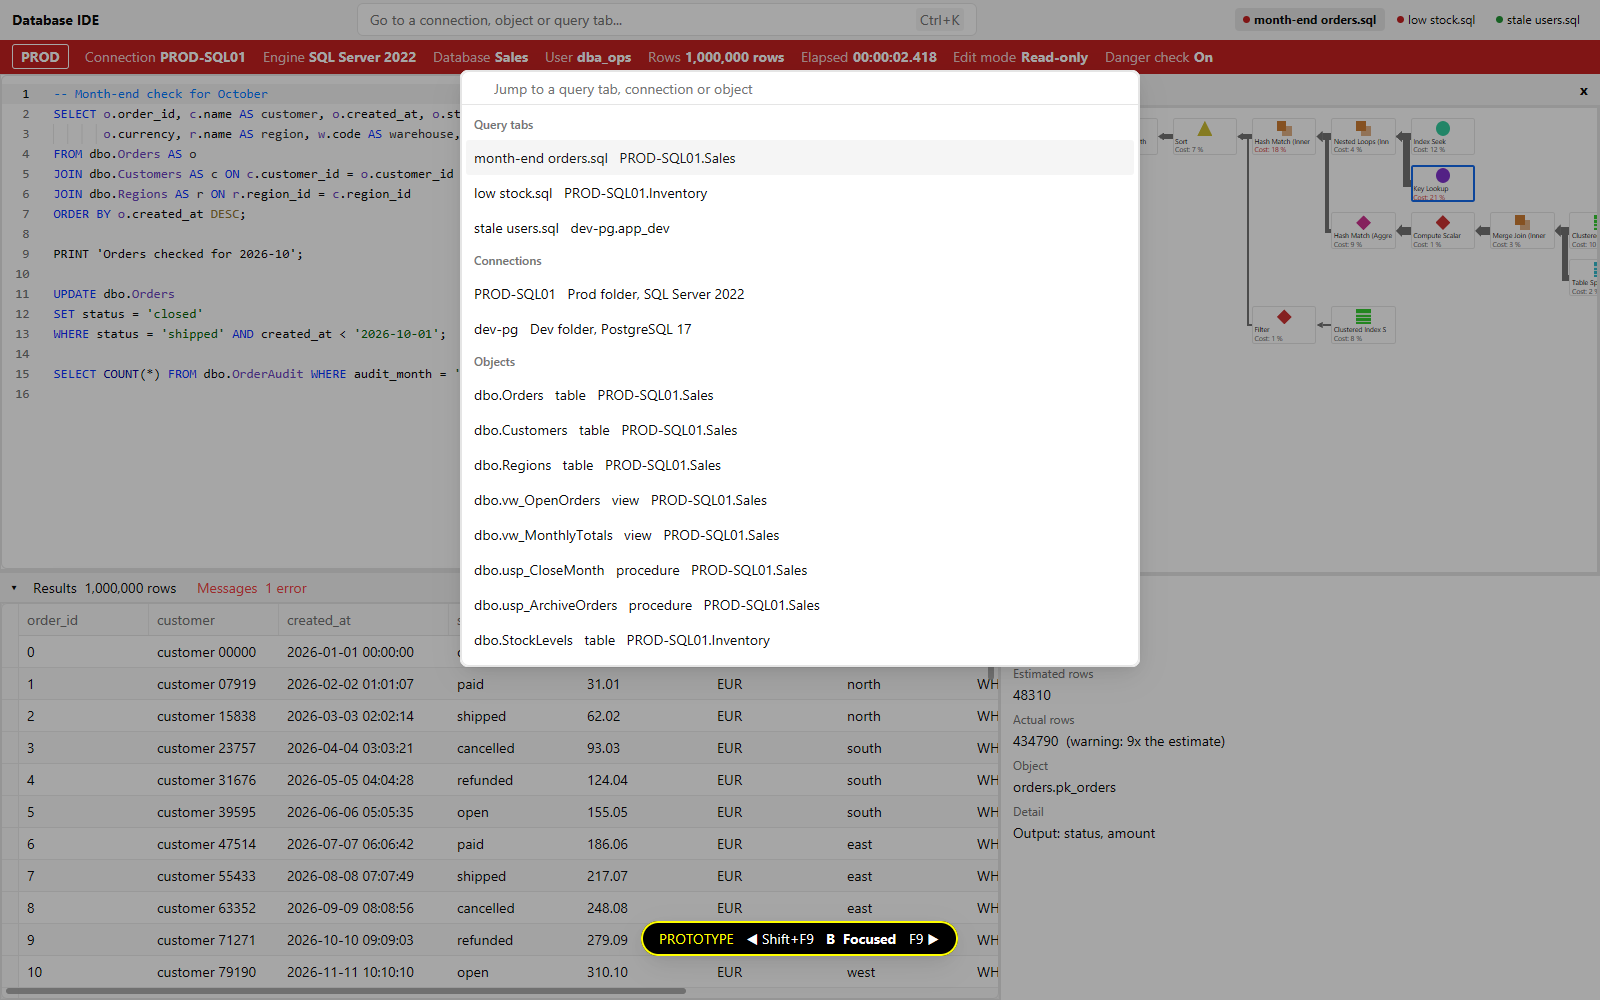
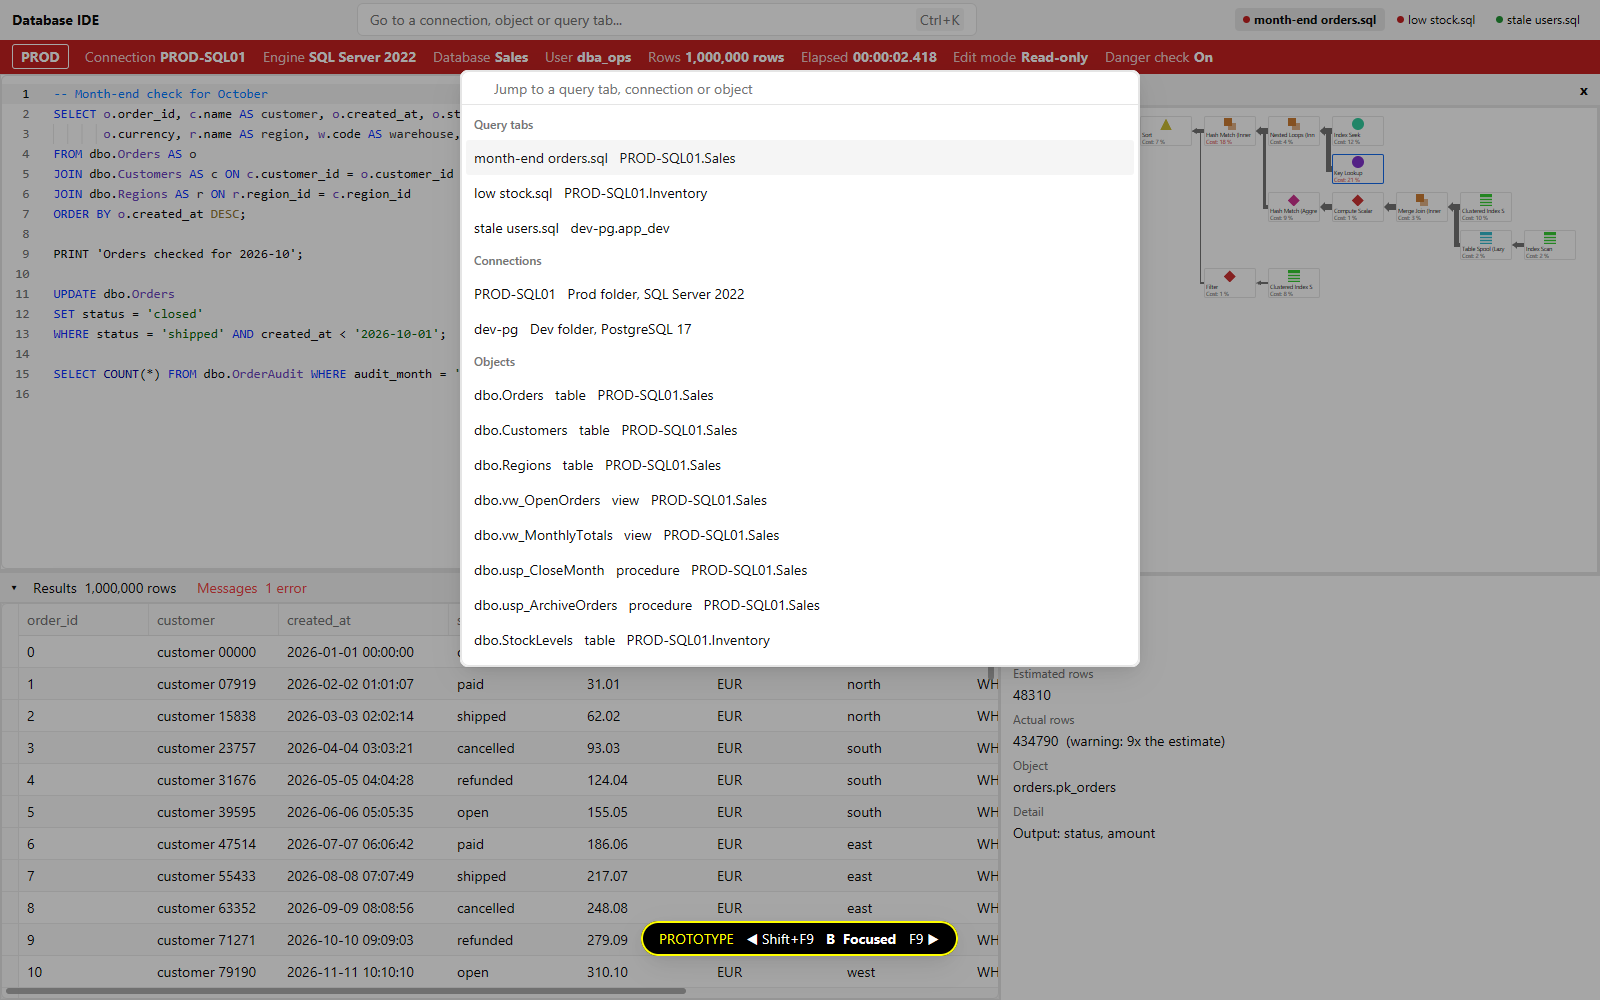
Show the plan when Ctrl+4 opens B's side panel, and fit the plan in it
After jumping to an object, Ctrl+4 kept the object in the side panel and focused
an off-screen plan. B's plan scale drops to 0.5 so the whole tree fits the panel.

Changed region(s): [[0.7188, 0.124, 1.0, 0.31], [0.75, 0.248, 0.8125, 0.341], [0.8438, 0.31, 0.875, 0.341]]

diff --git a/prototypes/main-window-layout/src/main.rs b/prototypes/main-window-layout/src/main.rs
@@ -189,7 +189,10 @@ impl Shell {
             (Variant::B, Pane::Messages) => {
                 (self.drawer_open, self.bottom) = (true, Bottom::Messages)
             }
-            (Variant::B, Pane::Plan) => self.plan_panel_open = true,
+            (Variant::B, Pane::Plan) => {
+                // The side panel shows the plan only when the plan is the selection.
+                (self.plan_panel_open, self.selection) = (true, Selection::PlanNode)
+            }
             (_, Pane::Results) => self.bottom = Bottom::Results,
             (Variant::A, Pane::Messages) => self.bottom = Bottom::Messages,
             (_, Pane::Plan) => self.bottom = Bottom::Plan,
@@ -286,7 +289,7 @@ impl Shell {
 fn plan_scale(variant: Variant) -> f32 {
     match variant {
         Variant::A => 1.,
-        Variant::B => 0.62,
+        Variant::B => 0.5,
         Variant::C => 0.85,
     }
 }

diff --git a/prototypes/main-window-layout/README.md b/prototypes/main-window-layout/README.md
@@ -49,5 +49,5 @@ F5, Run and the database dropdowns only draw; nothing runs.
 ## Built from
 
 - gpui-component's `Editor`, `DataTable`, `tree` (object explorer) and `command::Command` (B's palette)
-- The spike's `grid.rs`, `completion.rs` and `plan.rs`; `plan.rs` gains a scale factor so the plan fits B's side panel (0.62) and C's lower pane (0.85)
+- The spike's `grid.rs`, `completion.rs` and `plan.rs`; `plan.rs` gains a scale factor so the plan fits B's side panel (0.5) and C's lower pane (0.85)
 - Tab strips, the drawer, the stripe and the inspector are plain `div`s
